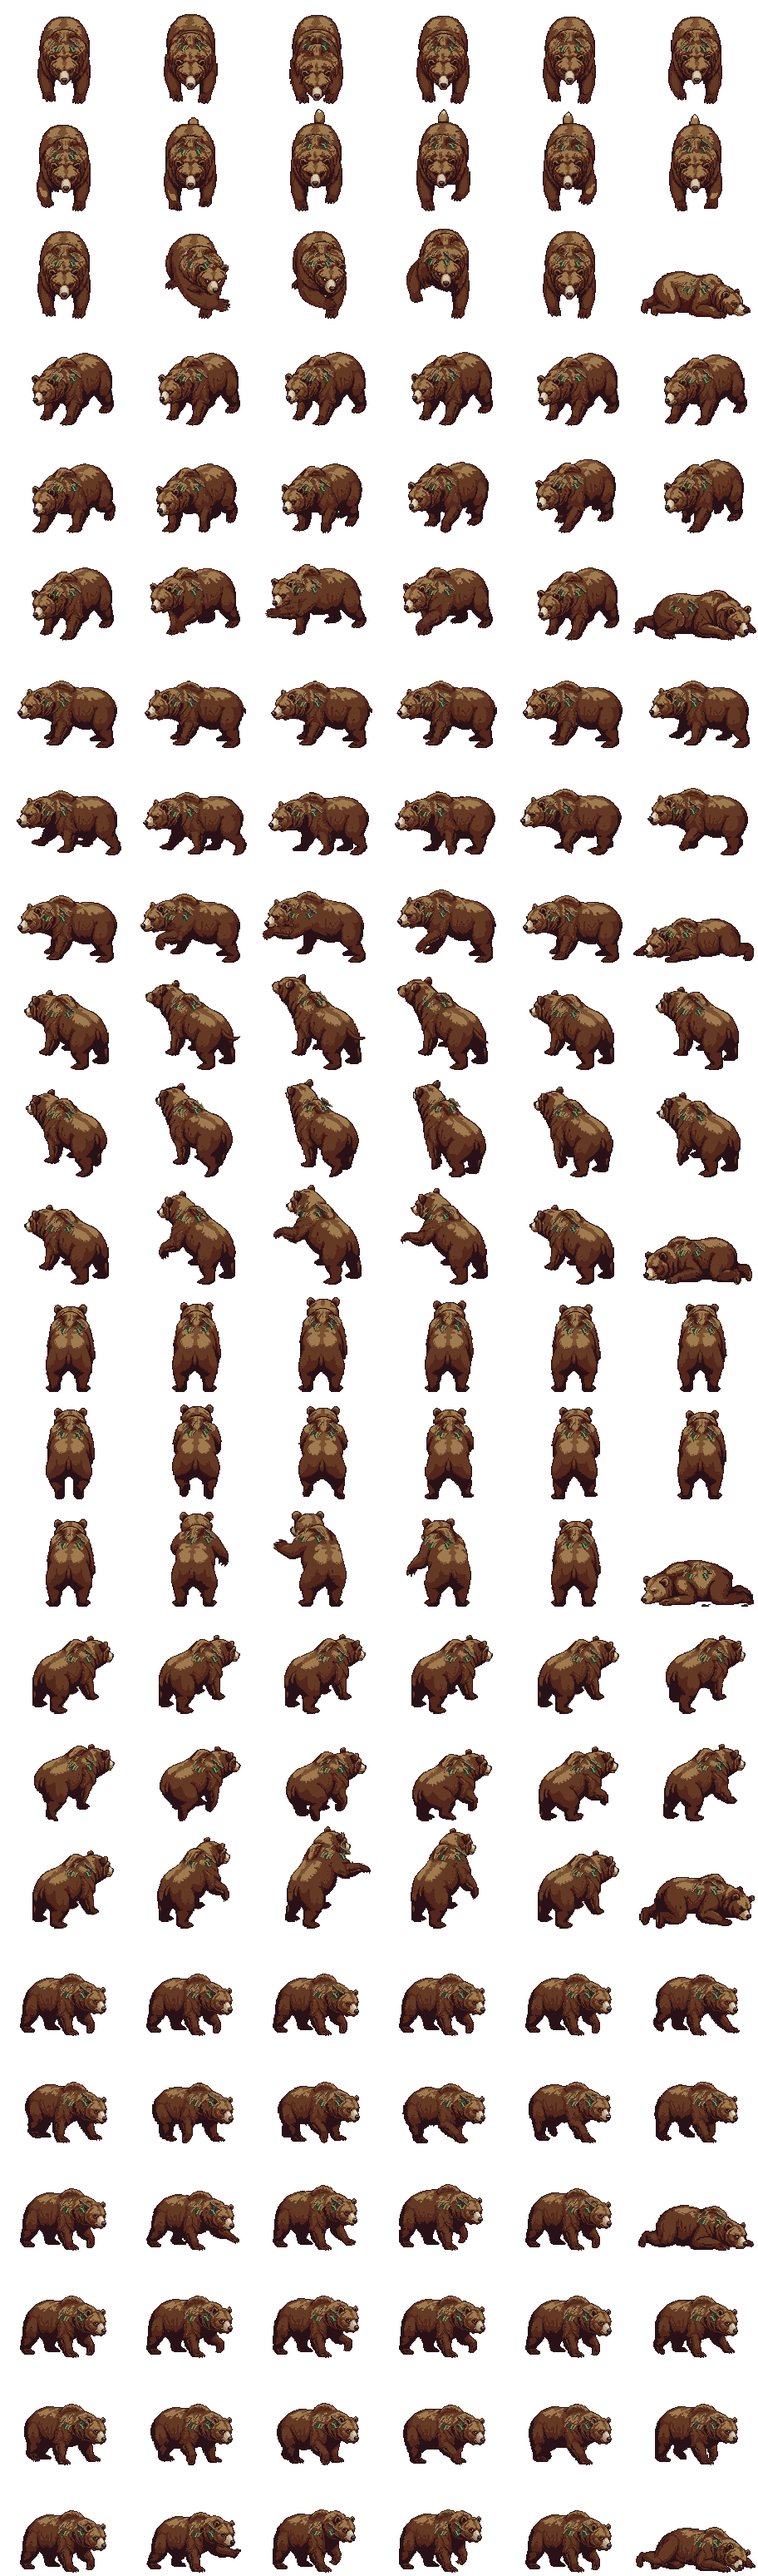
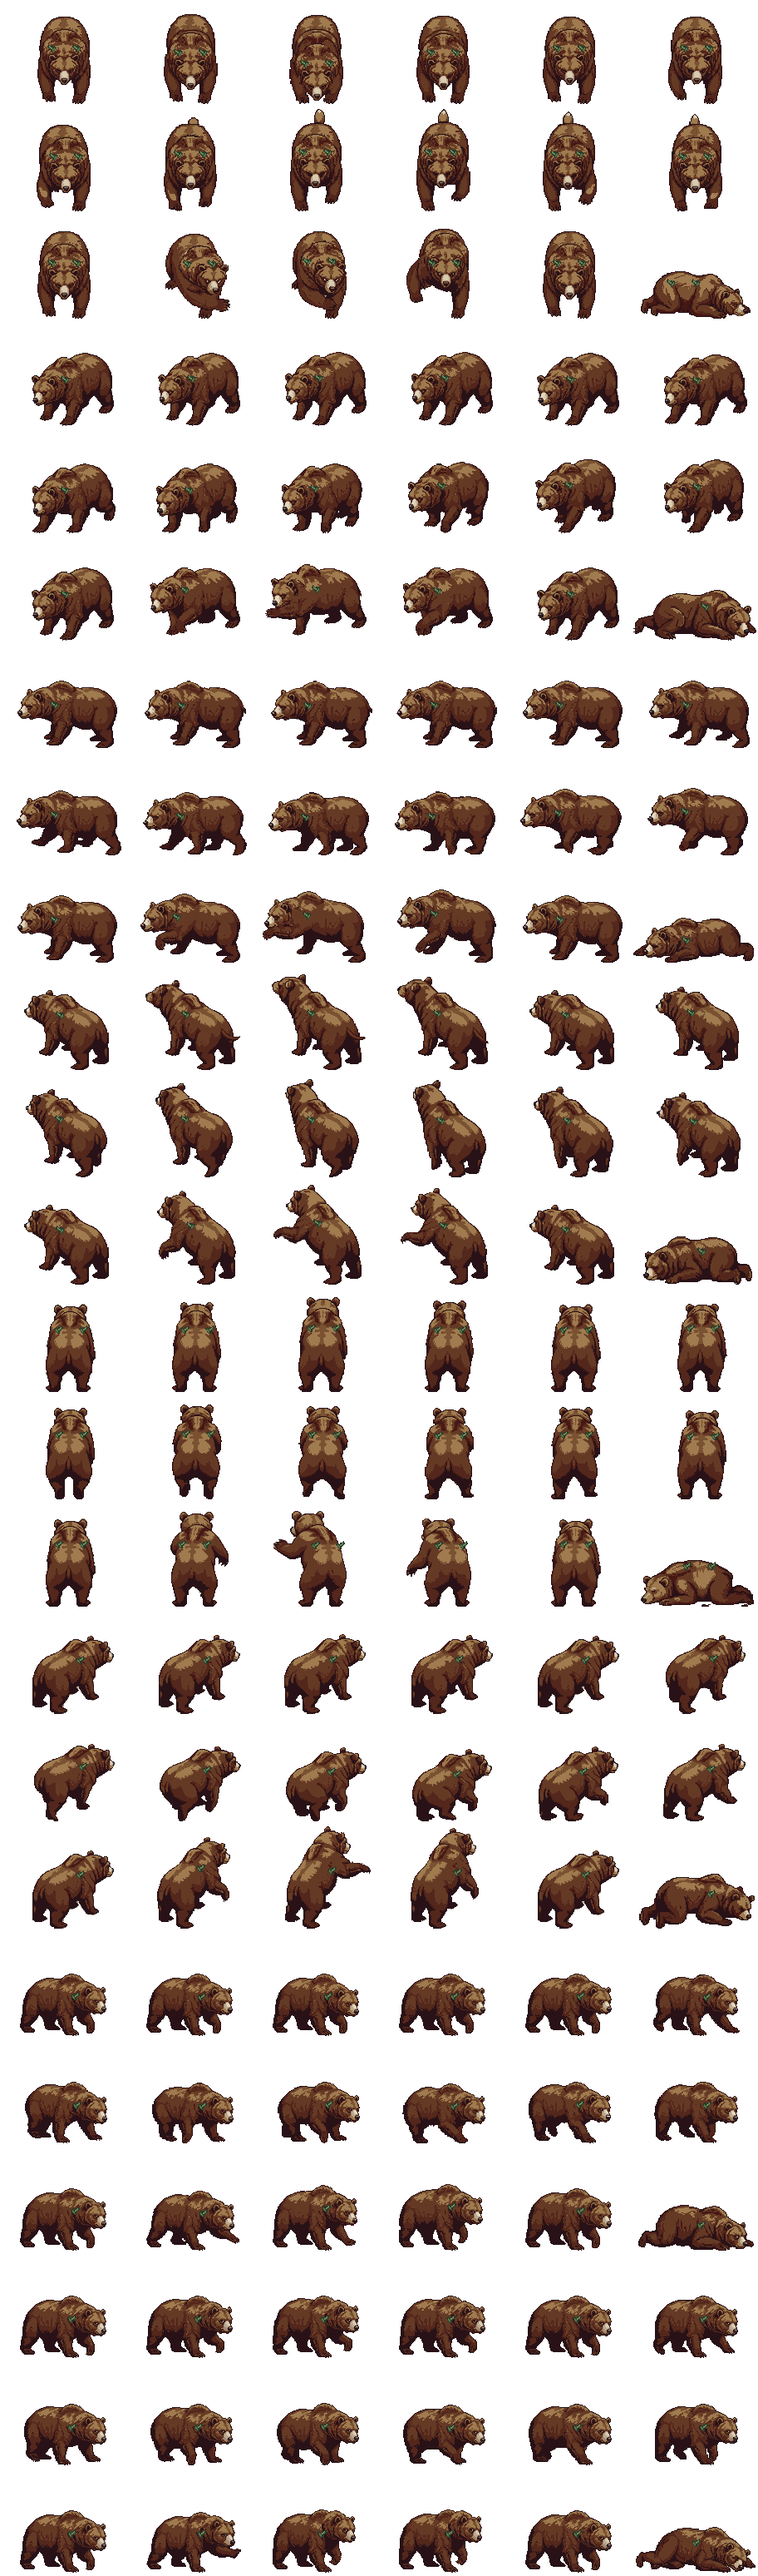
fix(tactics): anchor Druid adornments to authored animal poses
Retain native fur shading, replace sliding clipped wreaths with small neck ties and shoulder plates, and add a regression for moving extremities. Include a synchronized animation inspector.

Session: combat-vfx-247

diff --git a/tools/tactics-assets/dev/druid_motion.html b/tools/tactics-assets/dev/druid_motion.html
@@ -1,0 +1,33 @@
+<!doctype html><html lang="en"><meta charset="utf-8"><meta name="viewport" content="width=device-width"><title>Druid form motion correction</title>
+<style>body{background:#222732;color:#eee4cd;font:18px system-ui;max-width:1280px;margin:2rem auto;padding:0 1rem}a{color:#f0d27a}label{display:inline-block;margin:.5rem 1rem .5rem 0}select,button{font:inherit;color:inherit;background:#303747;border:1px solid #687082;padding:.4rem}canvas{display:block;max-width:100%;height:auto;image-rendering:pixelated;background:#222732;margin-top:1rem}p{max-width:85ch}</style>
+<h1>Druid forms · motion correction</h1><p>Previous decoration on the left, revised art on the right. Both play the same pose at the same time. The original fur shading is retained; smaller leaf ties and bark plates follow explicit neck/shoulder keys. Moving legs and tails no longer slide or reshape the decoration.</p>
+<p>Source-atlas inspection with the player for scale. <a href="../../index.html">Native game gallery</a> · <a href="../index.html">All-direction animation overview</a>. Previous revision: <code>BEFORE_REF</code>.</p>
+<label>Form <select id="form"><option value="dire_wolf">Dire wolf</option><option value="wolf">Wolf</option><option value="elder_bear">Elder bear</option><option value="bear">Bear</option></select></label>
+<label>Facing <select id="facing"></select></label><label>Action <select id="action"><option>walk</option><option>idle</option><option>attack</option><option>special</option><option>hurt</option><option>down</option></select></label>
+<label>Speed <select id="speed"><option value="1">Normal</option><option value="0.5">Half speed</option></select></label><button id="pause" type="button">Pause</button><button id="step" type="button">Next frame</button>
+<canvas id="review" width="1200" height="520" aria-label="Synchronized previous and revised Druid forms"></canvas><p id="status" aria-live="off"></p>
+<script>
+'use strict';
+const entries=/* MANIFEST */;
+const form=document.getElementById('form'),facing=document.getElementById('facing'),action=document.getElementById('action'),speed=document.getElementById('speed'),pause=document.getElementById('pause'),step=document.getElementById('step'),canvas=document.getElementById('review'),ctx=canvas.getContext('2d'),status=document.getElementById('status');
+const images={};let time=0,last=null,paused=false;
+for(const [index,name] of entries.dire_wolf.directions.entries()){const o=document.createElement('option');o.value=String(index);o.textContent=name;facing.appendChild(o);}facing.value='2';
+const load=(src)=>new Promise((resolve,reject)=>{const im=new Image();im.onload=()=>resolve(im);im.onerror=()=>reject(new Error('Cannot load '+src));im.src=src;});
+function draw(){
+ const e=entries[form.value],anim=e.anims[action.value],pose=anim.frames[Math.floor(time*anim.fps)%anim.frames.length],d=Number(facing.value),w=e.frame.width,h=e.frame.height;
+ ctx.imageSmoothingEnabled=false;ctx.fillStyle='#222732';ctx.fillRect(0,0,1200,520);ctx.font='22px system-ui';
+ for(let side=0;side<2;side++){
+  const start=side*600;ctx.fillStyle='#eee4cd';ctx.fillText(side?'REVISED':'PREVIOUS',start+18,34);ctx.fillStyle='#51545d';ctx.fillRect(start+12,445,576,1);
+  ctx.drawImage(images.player,start+140-80*2,445-145*2,320,320);
+  const z=4*e.pixelScale,dx=start+405-Math.round(e.frame.anchor[0]*z),dy=445-Math.round(e.frame.anchor[1]*z);
+  ctx.drawImage(images[(side?'after-':'before-')+form.value],pose%e.columns*w,(d*e.rowsPerDirection+Math.floor(pose/e.columns))*h,w,h,dx,dy,Math.round(w*z),Math.round(h*z));
+ }
+ status.textContent=form.options[form.selectedIndex].text+' · '+e.directions[d]+' · '+action.value+' · pose '+pose+' · '+speed.options[speed.selectedIndex].text;
+ canvas.dataset.pose=String(pose);
+}
+for(const control of [form,facing,action])control.addEventListener('change',()=>{time=0;draw();});
+pause.addEventListener('click',()=>{paused=!paused;pause.textContent=paused?'Play':'Pause';});
+step.addEventListener('click',()=>{paused=true;pause.textContent='Play';const anim=entries[form.value].anims[action.value];time=(Math.floor(time*anim.fps)+1)/anim.fps+1e-8;draw();});
+function tick(stamp){if(last!==null&&!paused)time+=Math.min(.1,(stamp-last)/1000)*Number(speed.value);last=stamp;draw();requestAnimationFrame(tick);}
+Promise.all([load('player.png').then(im=>images.player=im),...Object.keys(entries).flatMap(name=>['before-','after-'].map(prefix=>load(prefix+name+'.png').then(im=>images[prefix+name]=im)))]).then(()=>{document.body.dataset.ready='true';requestAnimationFrame(tick);}).catch(err=>{status.textContent=err.message;document.body.dataset.error=err.message;});
+</script></html>

diff --git a/tools/tactics-assets/parts/druid_forms.py b/tools/tactics-assets/parts/druid_forms.py
@@ -3,87 +3,77 @@ Natural coats, attached fur/bark mantles and small living-green details retain t
 clustered pixels and lighting. Source atlases and all non-Druid creatures stay untouched.
 """
 from pathlib import Path
-import copy,json,math
+import copy,json
 import numpy as np
-from PIL import Image,ImageDraw,ImageFilter
+from PIL import Image,ImageDraw
 from arcpix.out import PACK,save,write_json
+from .druid_form_poses import POSE_NECK
 FORMS={
  'wolf':('wolf_grey','beasts.wolf.druid',.4),
  'dire_wolf':('wolf_dire','beasts.wolf.druid_dire',.5),
  'bear':('bear_brown','beasts.bear.druid',.4),
  'elder_bear':('bear_brown','beasts.bear.druid_elder',.5)}
-# Where the shoulder lies in each approved facing, as a fraction of the posed body bounds.
-WOLF_NECK=[(.5,.50),(.40,.32),(.35,.31),(.42,.29),(.5,.27),(.58,.29),(.65,.31),(.60,.32)]
-BEAR_NECK=[(.5,.32),(.40,.30),(.37,.28),(.42,.25),(.5,.25),(.58,.25),(.63,.28),(.60,.30)]
 LEAF=['#263c2d','#39563c','#567548','#88a361','#c5d19a']
 BARK=['#302c2b','#4a3e31','#71583b','#a58758','#d0b681']
-FUR=['#34313b','#5b5862','#89858d','#b8b5ad','#e3ddc6']
+
+# Small, continuous neck ties follow each facing. The original fur is the ruff;
+# no brightness threshold/window repaints a moving piece of the coat.
+VINES=(
+ ((-7,-1),(0,3),(7,-1)), ((-5,-5),(0,0),(3,6)),
+ ((-3,-7),(0,0),(2,6)), ((-4,-4),(0,0),(5,3)),
+ ((-7,0),(0,3),(7,0)), ((-5,3),(0,0),(4,-4)),
+ ((-2,6),(0,0),(3,-7)), ((-3,6),(0,0),(5,-5)))
+
+def leaf_sprig(pen,x,y,side=1):
+ # One attached sprig: broad leaf planes rather than a ring of competing spikes.
+ pen.line([(x,y-2),(x,y+5)],fill=LEAF[0],width=2)
+ pen.polygon([(x,y),(x-4*side,y-4),(x-5*side,y-1),(x-1*side,y+3)],fill=LEAF[0])
+ pen.polygon([(x,y),(x-3*side,y-2),(x-3*side,y),(x,y+2)],fill=LEAF[2])
+ pen.line([(x,y+1),(x-3*side,y-2)],fill=LEAF[3])
+ pen.polygon([(x,y+2),(x+3*side,y-2),(x+5*side,y),(x+1*side,y+5)],fill=LEAF[0])
+ pen.polygon([(x+1*side,y+2),(x+3*side,y),(x+3*side,y+2),(x+1*side,y+4)],fill=LEAF[2])
+
+def bark_plate(pen,x,y):
+ pen.polygon([(x-4,y+3),(x-4,y-3),(x+1,y-6),(x+4,y-3),(x+4,y+3),(x,y+6)],fill=BARK[0])
+ pen.polygon([(x-2,y+2),(x-2,y-2),(x+1,y-4),(x+2,y-2),(x+2,y+2),(x,y+4)],fill=BARK[2])
+ pen.line([(x-2,y-2),(x+1,y-4),(x+2,y-2)],fill=BARK[3])
+ pen.line([(x,y-1),(x,y+2)],fill=BARK[1])
 
 def frame_image(source,form,direction,index):
- im=source.copy().convert('RGBA')
- # Imported idle/walk frames can drift by several pixels. Keep the grounded foot at the
- # runtime anchor, retaining the authored airborne attack frames unchanged.
+ im=source.copy().convert('RGBA');offset=0
  if index<12:
-  alpha=np.array(im.getchannel('A'));ys=np.where(alpha>0)[0]
+  ys=np.where(np.array(im.getchannel('A'))>0)[0]
   if len(ys):
    offset=im.height-5-int(ys.max())
    if offset:
     aligned=Image.new('RGBA',im.size);aligned.paste(im,(0,offset));im=aligned
- a=np.array(im);mask=a[:,:,3]>0
- if not mask.any():return im
- ys,xs=np.where(mask);left,top,right,bottom=xs.min(),ys.min(),xs.max(),ys.max();bw,bh=right-left+1,bottom-top+1
- bear='bear' in form;elder=form in ('dire_wolf','elder_bear');neck=(BEAR_NECK if bear else WOLF_NECK)[direction]
- cx,cy=left+neck[0]*bw,top+neck[1]*bh
- # Amber/red eyes become a restrained living green, retaining each original shade.
+ if not im.getbbox():return im
+ bear='bear' in form;cx,cy=POSE_NECK['bear' if bear else 'wolf'][direction][index];cy+=offset
  if not bear:
-  eyes=mask & (a[:,:,0]>a[:,:,1]*1.15) & (a[:,:,0]>a[:,:,2]*1.15) & (a[:,:,0]>90)
+  # Retain the authored coat/ruff and change only the source's red/amber eyes.
+  a=np.array(im);eyes=(a[:,:,3]>0)&(a[:,:,0]>a[:,:,1]*1.15)&(a[:,:,0]>a[:,:,2]*1.15)&(a[:,:,0]>90)
   for y,x in zip(*np.where(eyes)):
-   value=a[y,x,:3].max()/255
-   a[y,x,:3]=np.array([125,185,114])*max(.45,value)
+   value=a[y,x,:3].max()/255;a[y,x,:3]=np.array([125,185,114])*max(.45,value)
   im=Image.fromarray(a)
- # Elder forms have broad grizzled ruffs, retaining the original clustered shade planes.
- if elder:
-  yy,xx=np.indices(mask.shape);rx=23 if bear else 14;ry=14 if bear else 10
-  ruff=mask & (((xx-cx)/rx)**2+((yy-cy)/ry)**2<1)
-  lum=np.mean(a[:,:,:3],axis=2)
-  shade=np.clip(((lum-(28 if bear else 16))/(36 if bear else 22)).astype(int),0,4)
-  colors=np.array([[49,44,43],[83,74,64],[124,111,91],[166,150,121],[208,194,157]] if bear else [[39,38,46],[74,72,83],[117,116,128],[163,164,172],[211,214,205]],dtype='uint8')
-  a[ruff,:3]=colors[shade[ruff]]
-  im=Image.fromarray(a)
- # Materials stay broad and directional: a fur ruff on the dire wolf; bark plates on bears.
  overlay=Image.new('RGBA',im.size);pen=ImageDraw.Draw(overlay)
- palette=BARK if bear else FUR if elder else LEAF
- radius=(18 if form=='elder_bear' else 14 if bear else 10 if elder else 6)
- # Mantle wraps the shoulders instead of a detached aura. Each leaf/fur tuft has a dark
- # underside, a broad middle plane and one top-left highlight, like the source creature.
- count=11 if elder else 7
- for j in range(count):
-  angle=math.tau*j/count
-  x=cx+math.cos(angle)*radius;y=cy+math.sin(angle)*radius*.42
-  reach=(6 if elder else 4)+(j%3==0)
-  side=1 if math.cos(angle)>=0 else -1
-  poly=[(round(x-3),round(y-2)),(round(x+2),round(y-3)),(round(x+side*reach),round(y+reach*.65)),(round(x-2),round(y+2))]
-  pen.polygon(poly,fill=palette[0]);pen.polygon([(px,py-1) for px,py in poly[:-1]],fill=palette[2])
-  pen.line([(round(x-1),round(y-2)),(round(x+side*(reach-1)),round(y+reach*.45))],fill=palette[3],width=1)
-  pen.point((round(x-1),round(y-2)),fill=palette[4])
- # Elder bear carries a broad living-bark ridge with inset moss, rather than a scaled-up recolour.
- if form=='elder_bear':
-  for j in (-1,0,1):
-   x=round(cx+j*9);y=round(cy-4+abs(j)*2)
-   pen.polygon([(x-5,y+3),(x-4,y-6),(x+3,y-9),(x+6,y+1),(x,y+7)],fill=BARK[0])
-   pen.polygon([(x-3,y+1),(x-2,y-5),(x+2,y-6),(x+4,y),(x,y+4)],fill=BARK[2])
-   pen.line([(x-2,y-4),(x+1,y-5),(x+2,y+1)],fill=BARK[4],width=1)
-   pen.line([(x-2,y+1),(x,y+3),(x+3,y+1)],fill=LEAF[2],width=2)
- # Living leaf ties distinguish the caster from a hostile animal without turning the whole coat green.
- for side in (-1,1):
-  x=round(cx+side*(radius*.6));y=round(cy+4)
-  pen.polygon([(x,y-3),(x+side*4,y),(x+side*2,y+6),(x-1,y+2)],fill=LEAF[0])
-  pen.line([(x,y-1),(x+side*2,y+3)],fill=LEAF[3],width=2)
- # Limit extensions to a three-pixel connected fringe of the posed animal. Blank atlas cells stay blank.
- allowed=Image.fromarray((mask.astype('uint8')*255)).filter(ImageFilter.MaxFilter(7))
- alpha=np.minimum(np.array(overlay.getchannel('A')),np.array(allowed));overlay.putalpha(Image.fromarray(alpha))
- im=Image.alpha_composite(im,overlay)
- return im
+ if bear:
+  # Front-facing shoulder details sit beside the head, never across the face.
+  if direction in (0,4):sites=[(cx-15,cy-2),(cx+15,cy-2)]
+  else:sites=[(cx,cy)]
+  if form=='elder_bear':
+   if direction not in (0,4):
+    back=1 if direction in (1,2,3) else -1
+    sites.append((cx+back*9,cy+(-3 if direction in (1,2,6,7) else 5)))
+   for x,y in sites:bark_plate(pen,x,y)
+  # A little living green belongs to the shoulder rather than obscuring its fur.
+  for x,y in sites:leaf_sprig(pen,x,y+5,1 if direction<4 else -1)
+ else:
+  points=[(cx+x,cy+y) for x,y in VINES[direction]]
+  pen.line(points,fill=LEAF[0],width=3);pen.line(points,fill=LEAF[2],width=1)
+  leaf_sprig(pen,*points[1],1 if direction<4 else -1)
+ # No silhouette clipping: the same whole sprig/plate survives every gait frame.
+ # Pose keys move it with the neck; moving legs/tails cannot reshape the material.
+ return Image.alpha_composite(im,overlay)
 
 def render(form,manifest=None):
  source_name,key,scale=FORMS[form]
@@ -99,7 +89,7 @@ def render(form,manifest=None):
  entry['anims']['attack']['fps']=100/7  # impact frame 2 lands at the 0.14 s bite/swipe cue
  oldscale=entry['pixelScale'];entry.update(file='druid_'+form+'.png',keys=[key],variant='druid_'+form,pixelScale=scale,columns=targetcols,rowsPerDirection=targetrows,
   footprintWidth=entry['footprintWidth']*scale/oldscale,footprintHeight=entry['footprintHeight']*scale/oldscale,
-  provenance='Native Druid mantle, fur and bark work on the approved '+source_name+' anatomy and eight-direction motion. No source creature atlas is modified.')
+  provenance='Pose-keyed Druid leaf ties and shoulder bark on the approved '+source_name+' anatomy and eight-direction motion. No source creature atlas is modified.')
  return atlas,entry
 
 def build():

diff --git a/tools/tactics-assets/parts/druid_form_poses.py b/tools/tactics-assets/parts/druid_form_poses.py
@@ -1,0 +1,28 @@
+"""Neck/shoulder attachment keys for the approved creature poses, in source pixels.
+
+Each row is one real compass facing; columns are the eighteen authored pose indices.
+Keys follow anatomy through idle, gait, lunge, hurt and down poses. They do not depend
+on the moving silhouette bounds. Ground correction translates the body and key together.
+"""
+POSE_NECK = {
+ 'wolf': (
+  ((59, 63), (59, 62), (59, 61), (59, 61), (59, 63), (59, 63), (59, 65), (59, 64), (59, 62), (59, 61), (59, 62), (59, 65), (59, 63), (61, 70), (61, 65), (60, 69), (59, 63), (66, 75)), # 0
+  ((60, 61), (61, 61), (61, 61), (61, 61), (60, 61), (61, 60), (62, 61), (63, 61), (63, 59), (62, 59), (61, 60), (60, 61), (60, 61), (55, 65), (59, 64), (59, 62), (60, 61), (57, 78)), # 1
+  ((51, 54), (52, 55), (54, 55), (52, 55), (51, 54), (51, 54), (51, 55), (51, 54), (51, 53), (51, 54), (50, 55), (51, 54), (51, 54), (50, 55), (47, 55), (49, 55), (51, 54), (48, 75)), # 2
+  ((56, 44), (56, 44), (55, 44), (55, 44), (56, 44), (56, 43), (55, 43), (55, 43), (55, 43), (55, 43), (55, 43), (56, 43), (56, 44), (53, 44), (51, 44), (55, 44), (56, 44), (63, 68)), # 3
+  ((62, 39), (62, 34), (62, 32), (62, 35), (62, 39), (62, 38), (62, 37), (62, 36), (62, 34), (62, 35), (62, 37), (62, 39), (62, 39), (65, 41), (71, 52), (67, 49), (62, 39), (69, 65)), # 4
+  ((66, 44), (66, 43), (65, 42), (66, 44), (66, 44), (66, 45), (66, 44), (66, 43), (66, 43), (66, 43), (67, 43), (67, 43), (66, 44), (76, 49), (70, 49), (72, 44), (66, 44), (67, 70)), # 5
+  ((70, 54), (70, 54), (70, 52), (70, 54), (70, 54), (70, 55), (71, 55), (71, 54), (71, 54), (72, 53), (72, 54), (71, 55), (70, 54), (77, 55), (76, 57), (78, 56), (70, 54), (72, 75)), # 6
+  ((60, 61), (60, 60), (60, 60), (60, 61), (60, 61), (60, 60), (58, 61), (58, 61), (58, 61), (59, 60), (59, 59), (60, 60), (60, 61), (63, 62), (72, 63), (65, 61), (60, 61), (70, 76)), # 7
+ ),
+ 'bear': (
+  ((77, 54), (77, 58), (77, 58), (77, 55), (77, 54), (78, 53), (79, 52), (77, 52), (75, 52), (74, 52), (74, 52), (76, 54), (77, 54), (88, 55), (80, 52), (78, 54), (77, 54), (62, 78)), # 0
+  ((78, 63), (78, 62), (79, 61), (79, 61), (78, 63), (78, 63), (78, 64), (75, 63), (74, 61), (75, 61), (76, 63), (78, 64), (78, 63), (70, 58), (76, 57), (70, 59), (78, 63), (88, 78)), # 1
+  ((65, 67), (66, 68), (66, 68), (66, 67), (65, 67), (65, 67), (65, 70), (65, 70), (63, 70), (63, 69), (63, 68), (64, 66), (65, 67), (60, 64), (65, 62), (66, 60), (65, 67), (65, 92)), # 2
+  ((72, 53), (71, 52), (70, 51), (70, 51), (72, 53), (71, 51), (71, 51), (70, 50), (70, 48), (74, 46), (74, 48), (74, 51), (72, 53), (77, 48), (78, 45), (77, 48), (72, 53), (84, 79)), # 3
+  ((85, 46), (85, 46), (85, 44), (85, 46), (85, 46), (85, 44), (85, 43), (86, 41), (86, 38), (86, 36), (85, 41), (85, 45), (85, 46), (81, 46), (90, 47), (86, 47), (85, 46), (81, 72)), # 4
+  ((96, 54), (96, 54), (96, 53), (96, 53), (96, 54), (98, 54), (99, 55), (96, 54), (94, 53), (93, 53), (93, 53), (95, 54), (96, 54), (89, 46), (95, 49), (94, 51), (96, 54), (95, 77)), # 5
+  ((90, 71), (90, 72), (90, 71), (90, 71), (90, 71), (90, 72), (92, 73), (91, 72), (91, 71), (90, 71), (89, 72), (90, 73), (90, 71), (92, 74), (88, 68), (87, 66), (90, 71), (83, 88)), # 6
+  ((86, 72), (86, 72), (86, 72), (86, 72), (86, 72), (86, 72), (86, 73), (86, 72), (86, 71), (86, 72), (86, 73), (86, 73), (86, 72), (90, 72), (83, 72), (84, 72), (86, 72), (77, 83)), # 7
+ ),
+}

diff --git a/tools/tactics-assets/test_druid_forms.py b/tools/tactics-assets/test_druid_forms.py
@@ -3,7 +3,7 @@ import io,json,unittest,hashlib
 import numpy as np
 from PIL import Image
 from arcpix.out import PACK
-from parts.druid_forms import FORMS,render
+from parts.druid_forms import FORMS,render,frame_image
 class DruidFormsTests(unittest.TestCase):
  def test_four_sheets_and_manifest_entries_reproduce_byte_for_byte(self):
   manifest=json.loads((PACK/'creatures/manifest.json').read_text())['sprites']
@@ -33,3 +33,14 @@ class DruidFormsTests(unittest.TestCase):
   self.assertGreater(m['druid_elder_bear']['pixelScale'],m['druid_bear']['pixelScale'])
   self.assertEqual(4,len({hashlib.sha256((PACK/'creatures'/m['druid_'+f]['file']).read_bytes()).digest() for f in FORMS}))
   for f in FORMS:self.assertFalse(m['druid_'+f]['unlit'])
+
+ def test_moving_extremities_do_not_slide_or_reshape_the_neck_decoration(self):
+  # A tail/leg outside the neck must not reposition the fur or plant material.
+  # Attack poses skip ground correction, isolating attachment from foot placement.
+  manifest=json.loads((PACK/'creatures/manifest.json').read_text())['sprites']
+  for form,(source,_,_) in FORMS.items():
+   e=manifest[source];sheet=Image.open(PACK/'creatures'/e['file']).convert('RGBA');w,h=e['frame']['width'],e['frame']['height'];frame=12;direction=2
+   x=frame%e['columns']*w;y=(direction*e['rowsPerDirection']+frame//e['columns'])*h
+   body=sheet.crop((x,y,x+w,y+h));extended=body.copy();extended.putpixel((w-1,0),(70,60,50,255))
+   ordinary=frame_image(body,form,direction,frame);moved=frame_image(extended,form,direction,frame)
+   self.assertEqual(ordinary.crop((0,1,w-1,h)).tobytes(),moved.crop((0,1,w-1,h)).tobytes(),form)

diff --git a/tools/tactics-assets/dev/review_druid_motion.py b/tools/tactics-assets/dev/review_druid_motion.py
@@ -1,0 +1,23 @@
+"""Compare the previous Druid decorations with pose-keyed art in synchronized loops."""
+import argparse,json,shutil,subprocess,sys
+from pathlib import Path
+sys.path.insert(0,str(Path(__file__).resolve().parents[1]))
+from PIL import Image
+from arcpix.out import PACK
+from parts.druid_forms import FORMS
+ROOT=Path(__file__).resolve().parents[3]
+OUT=ROOT/'docs/superpowers/reports/combat-vfx/druid/forms/motion'
+
+def main():
+ parser=argparse.ArgumentParser();parser.add_argument('--before-ref',default='973287973e1b43ea0d82db5c02e84c4c927adef7');args=parser.parse_args();OUT.mkdir(parents=True,exist_ok=True)
+ manifest=json.loads((PACK/'creatures/manifest.json').read_text())['sprites'];entries={}
+ for form in FORMS:
+  entry=manifest['druid_'+form];entries[form]=entry
+  path='content/tactics/base/creatures/'+entry['file']
+  (OUT/('before-'+form+'.png')).write_bytes(subprocess.check_output(['git','show',args.before_ref+':'+path],cwd=ROOT))
+  shutil.copyfile(PACK/'creatures'/entry['file'],OUT/('after-'+form+'.png'))
+ with Image.open(PACK/'tactical/human_druid.png') as hero:hero.crop((0,0,160,160)).save(OUT/'player.png',optimize=True)
+ template=Path(__file__).with_name('druid_motion.html').read_text()
+ (OUT/'index.html').write_text(template.replace('/* MANIFEST */',json.dumps(entries)).replace('BEFORE_REF',args.before_ref))
+ print('Exported synchronized previous/revised loops for all four forms, eight facings and every action.')
+if __name__=='__main__':main()
